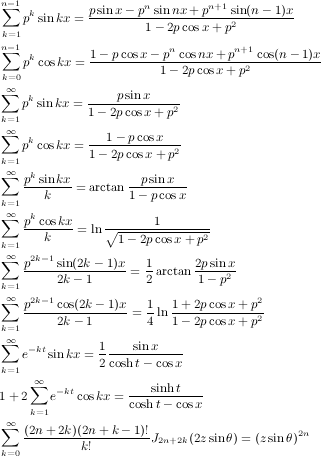
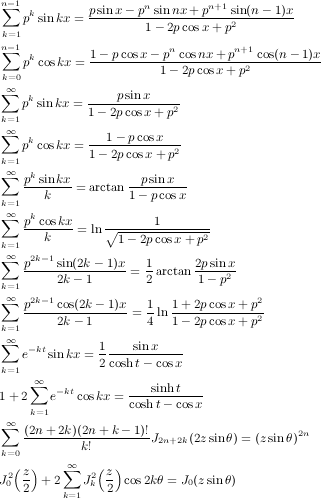
bugs

Changed region(s): [[0.0, 0.0, 1.0, 1.0], [0.9346, 0.9211, 0.9657, 0.9518]]

diff --git a/sndclm.html b/sndclm.html
@@ -1099,7 +1099,7 @@ Despite appearances, we hear this (are you sitting down?) as a changing amplitud
 Spectra can be tricky to interpret, and I've tried to choose parameters for this display that emphasize 
 the broadening.
 </p>
-
+<br>
 
 <table border=3 bordercolor="tan" hspace=40 vspace=10><th bgcolor="beige">Envelopes</th><tr><td>
 <blockquote><small>
@@ -2037,7 +2037,26 @@ To repeat the punch line of that discussion, if the highest harmonic requested i
 high, the generator uses a sum of sines (i.e. cos or sin directly) so that you always get a clean
 result.
 </small></p>
+<p><small>
+The waveshaping noise is much worse because the polynomial is so 
+sensitive numerically.  Here is a portion of the error signal at the point where the driving sinusoid
+is at its maximum:
+</small></p>
+<img src="errorwave.png" alt="cheby error" hspace=40>
 </td></tr></table>
+
+<!--
+;;; omitted 100 component since it is clean and I couldn't get it to cancel...
+(with-sound (:srate 1000000)
+  (let ((wave (make-waveshape 100.0 :partials '(8 1 16 1) :size 512))
+	(osc1 (make-oscil 1600.0 (* 0.5 pi))) 
+	(osc2 (make-oscil 800.0 (* 0.5 pi))))
+    (do ((i 0 (1+ i)))
+	((= i 1000000))
+      (outa i (- (waveshape wave)
+		 (* 1/2 (+ (oscil osc1) 
+			   (oscil osc2))))))))
+-->
 
 <p>
 Perhaps a better question is, why waveshape?  Here history intrudes.  We couldn't handle the
@@ -2045,6 +2064,14 @@ polynomial on the Samson box, so we used the table-lookup version.  I've tried t
 reasonable backwards compatibility with old instruments, but someday I think I'll 
 remove the waveshape generator.
 </p>
+
+
+<!-- this works: (make-waveshape 100.0 :partials '(1 1) :size 2)
+     because the initial "polynomial" is a straight line: 
+       :(mus-data (make-waveshape 100.0 :partials '(1 1) :size 2))
+       #<vct[len=2]: -1.000 1.000>
+     and we use array-interp to drive it with a sinusoid, so x=x!
+-->
 
 
 <br><br>
@@ -2467,7 +2494,7 @@ sceq14:
 &\sum_{k=1}^{n}(-1)^{k+1}\sin(2k-1)x = (-1)^{n+1}\frac{\sin 2nx}{2\cos x} \\
 &\sum_{k=1}^{n-1}k\sin kx=\frac{\sin nx}{4 \sin^{2}\frac{x}{2}} - \frac{n \cos \frac{2n-1}{2}x}{2\sin\frac{x}{2}} \\
 &\sum_{k=1}^{n-1}k\cos kx=\frac{n\sin\frac{2n-1}{2}x}{2\sin\frac{x}{2}} - \frac{1-\cos nx}{4\sin^{2}\frac{x}{2}} \\
-&J_{0}^{2}\Big(\frac{z}{2}\Big)+2\sum_{k=1}^{\infty} J_{k}^{2}\Big(\frac{z}{2}\Big)\cos2k\theta = J_{0}(z \sin \theta) \\
+&2^{1-n} \sum_{0}^{\lfloor n/2 \rfloor} \binom{n}{k} \cos (n-2k)\theta = \cos^{n}\theta \\
 
 sceq15:
 &\sum_{k=1}^{n-1}p^{k}\sin kx=\frac{p\sin x - p^{n}\sin nx + p^{n+1}\sin(n-1)x}{1-2p\cos x+p^{2}} \\
@@ -2481,6 +2508,7 @@ sceq15:
 &\sum_{k=1}^{\infty}e^{-kt}\sin kx = \frac{1}{2}\frac{\sin x}{\cosh t - \cos x} \\
 &1 + 2\sum_{k=1}^{\infty}e^{-kt}\cos kx = \frac{\sinh t}{\cosh t - \cos x} \\
 &\sum_{k=0}^{\infty} \frac{(2n+2k)(2n+k-1)!}{k!}J_{2n+2k}(2z \sin \theta) = (z \sin \theta)^{2n} \\
+&J_{0}^{2}\Big(\frac{z}{2}\Big)+2\sum_{k=1}^{\infty} J_{k}^{2}\Big(\frac{z}{2}\Big)\cos2k\theta = J_{0}(z \sin \theta) \\
 \end{align*}
 
 
@@ -2611,7 +2639,7 @@ another kernel set: binomial coeffs G&R 1.320 etc -- not different enough
   <area shape=rect coords="0,321,300,360">
   <area shape=rect coords="0,361,300,410" href="sndclm.html#nkssb" alt="nkssb">
   <area shape=rect coords="0,411,300,450" href="sndclm.html#nkssb" alt="nkssb">
-  <area shape=rect coords="0,451,300,500" href="sndclm.html#j0evencos" alt="j0evencos">
+  <area shape=rect coords="0,450,300,485" href="sndclm.html#nchoosekcos" alt="nchoosekcos">
 </map>
 </td>
 <td width=40></td>
@@ -2627,6 +2655,7 @@ another kernel set: binomial coeffs G&R 1.320 etc -- not different enough
   <area shape=rect coords="0,301,300,340" href="sndclm.html#rkoddssb" alt="rkoddssb">
   <area shape=rect coords="0,341,300,380" href="sndclm.html#erssb" alt="erssb">
   <area shape=rect coords="0,381,300,420" href="sndclm.html#ercos" alt="ercos">
+  <area shape=rect coords="0,465,300,490" href="sndclm.html#j0evencos" alt="j0evencos">
 </map>
 </td>
 </tr>
@@ -6184,6 +6213,17 @@ The instrument nkssber uses nkssb-interp:
 </pre>
 
 <p>This generator produces a sum of n cosines scaled by sin(k*pi/(n+1))/sin(pi/(n+1)).
+</p>
+<br>
+
+
+<pre>
+  <A class=def NAME="make-nchoosekcos">make-nchoosekcos</A> <a class=quiet href="#optional-key" onmouseout="UnTip()" onmouseover="Tip(sndclm_optional_key_tip)">:optional-key</a> (frequency 0.0) (ratio 1.0) (n 1)
+  <A class=def NAME="nchoosekcos">nchoosekcos</A> gen fm
+  <A class=def NAME="nchoosekcos?">nchoosekcos?</A> gen
+</pre>
+
+<p>This generator produces a sum of n cosines scaled by the binomial coefficients.  If n is even, the last term is halved.
 </p>
 <br>
 

diff --git a/snd.c b/snd.c
@@ -3,14 +3,12 @@
  * originally intended as a re-implementation of my much-missed dpysnd -- the Foonly/SAIL/E/Mus10/Grnlib sound editor from ca 1983.
  */
 
-/* TODO: fix the infinite loop in forth
+/*   MAJOR THINGS TO DO...
+ *
+ * TODO: fix the infinite loop in forth
  * TODO: direct to dac/jack in clm (write_sample replacement)
  * TODO:   openMP or similar multi-thread system for instruments?
  * TODO: dlocsig/move-sound in run
- * TODO: waveshape noise analysis
- * TODO: check out wavo again and make it graph in some reasonable way
- * TODO: polywave should accept 1/2 kind distinction, perhaps add 3/4 kinds (also is the phase offset documented?)
- * TODO: nchooseksin?
  * TODO: check out juce and chicken scheme
  */
 

diff --git a/snd-chn.c b/snd-chn.c
@@ -5,6 +5,11 @@
 
 /* SOMEDAY: fft side needs a zoom capability, not just the drag now */
 /* TODO: set y-bounds doesn't always fixup the y zoom slider? */
+/*
+ * TODO: check out wavo again and make it graph in some reasonable way
+ * TODO: polywave should accept 1/2 kind distinction, perhaps add 3/4 kinds (also is the phase offset documented?)
+ */
+
 
 
 /* it would be neat I think to change label font sizes/button sizes etc when dialog changes size

diff --git a/snd-fft.c b/snd-fft.c
@@ -5,7 +5,7 @@
 
 /* we need error catcher from FFTW (memerr = exit) */
 
-/* TODO: if big (long) spectr we run out of mem -- can this be done as needed in slices? */
+/* TODO: if big (long) spectr we run out of mem -- can this be done as needed in slices? or using temp files? */
 
 #if WITH_SHARED_SNDLIB
 #if HAVE_FFTW3
